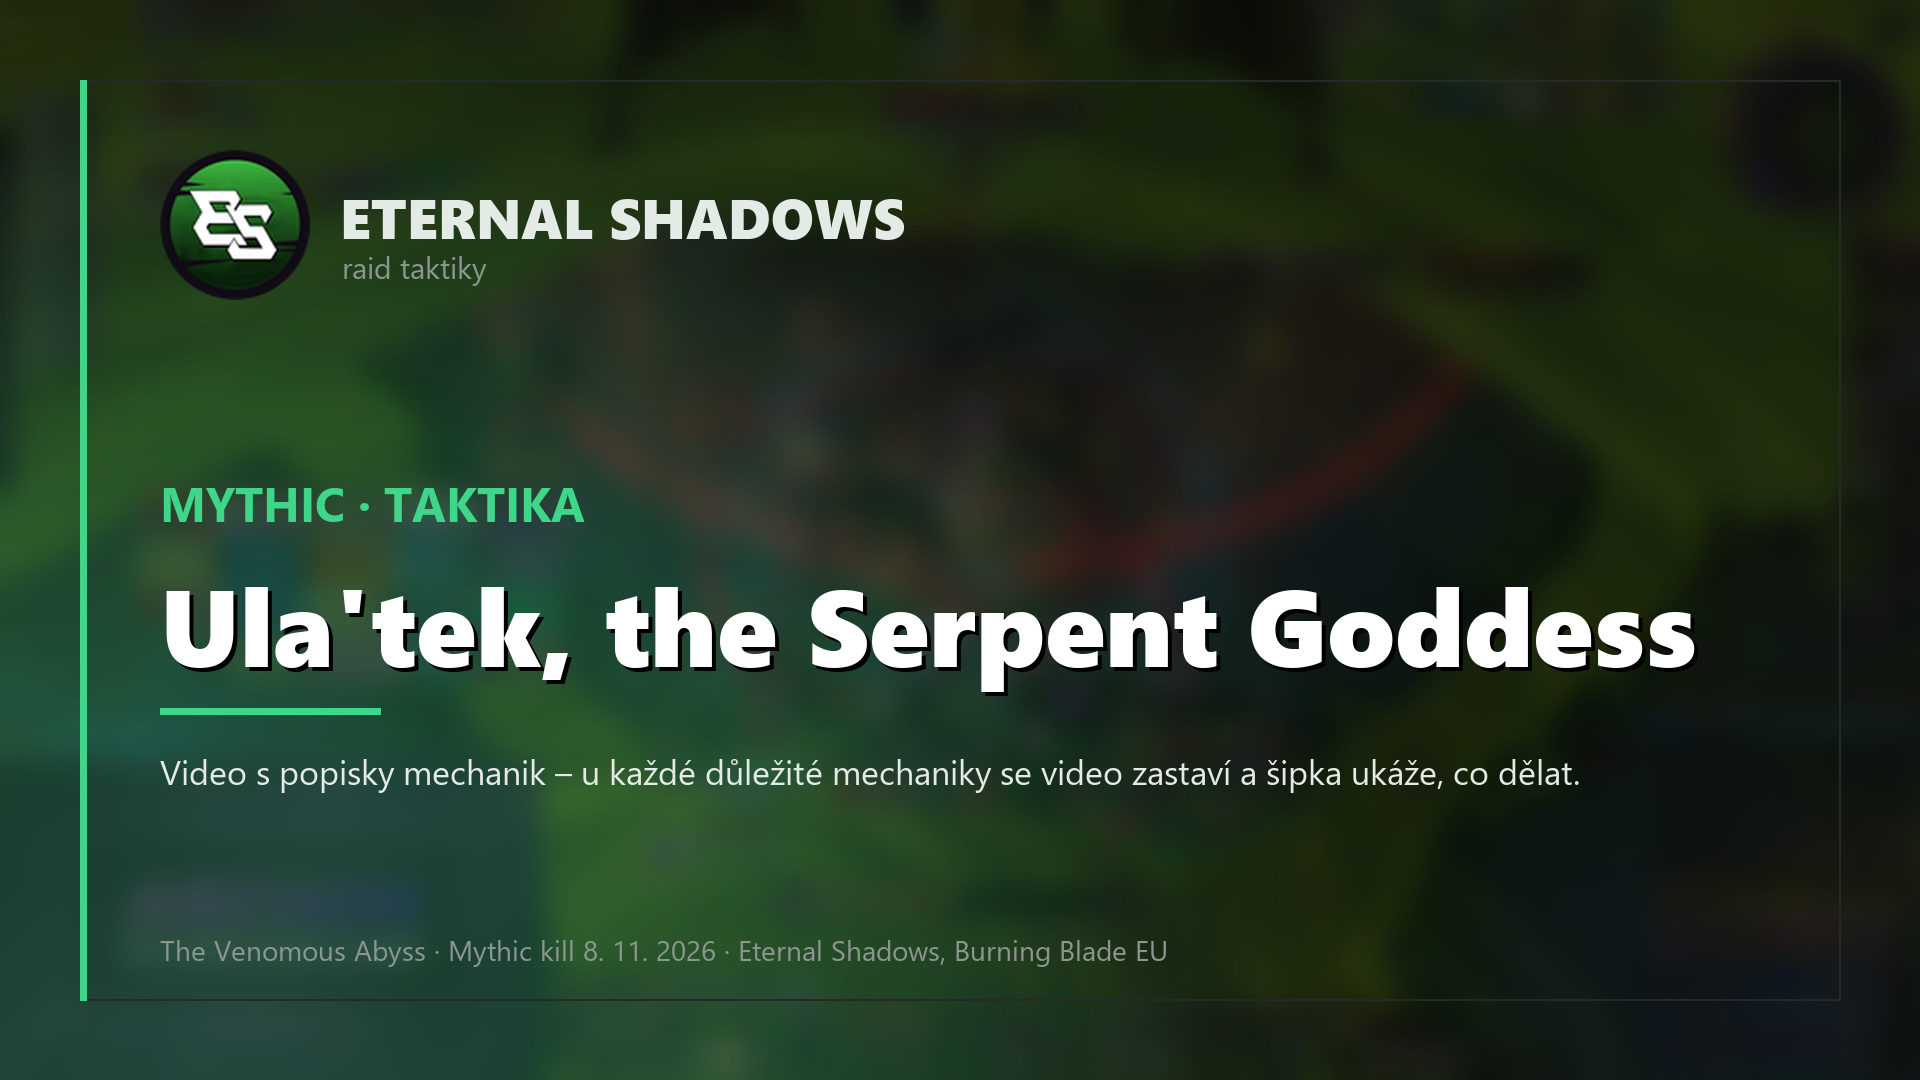
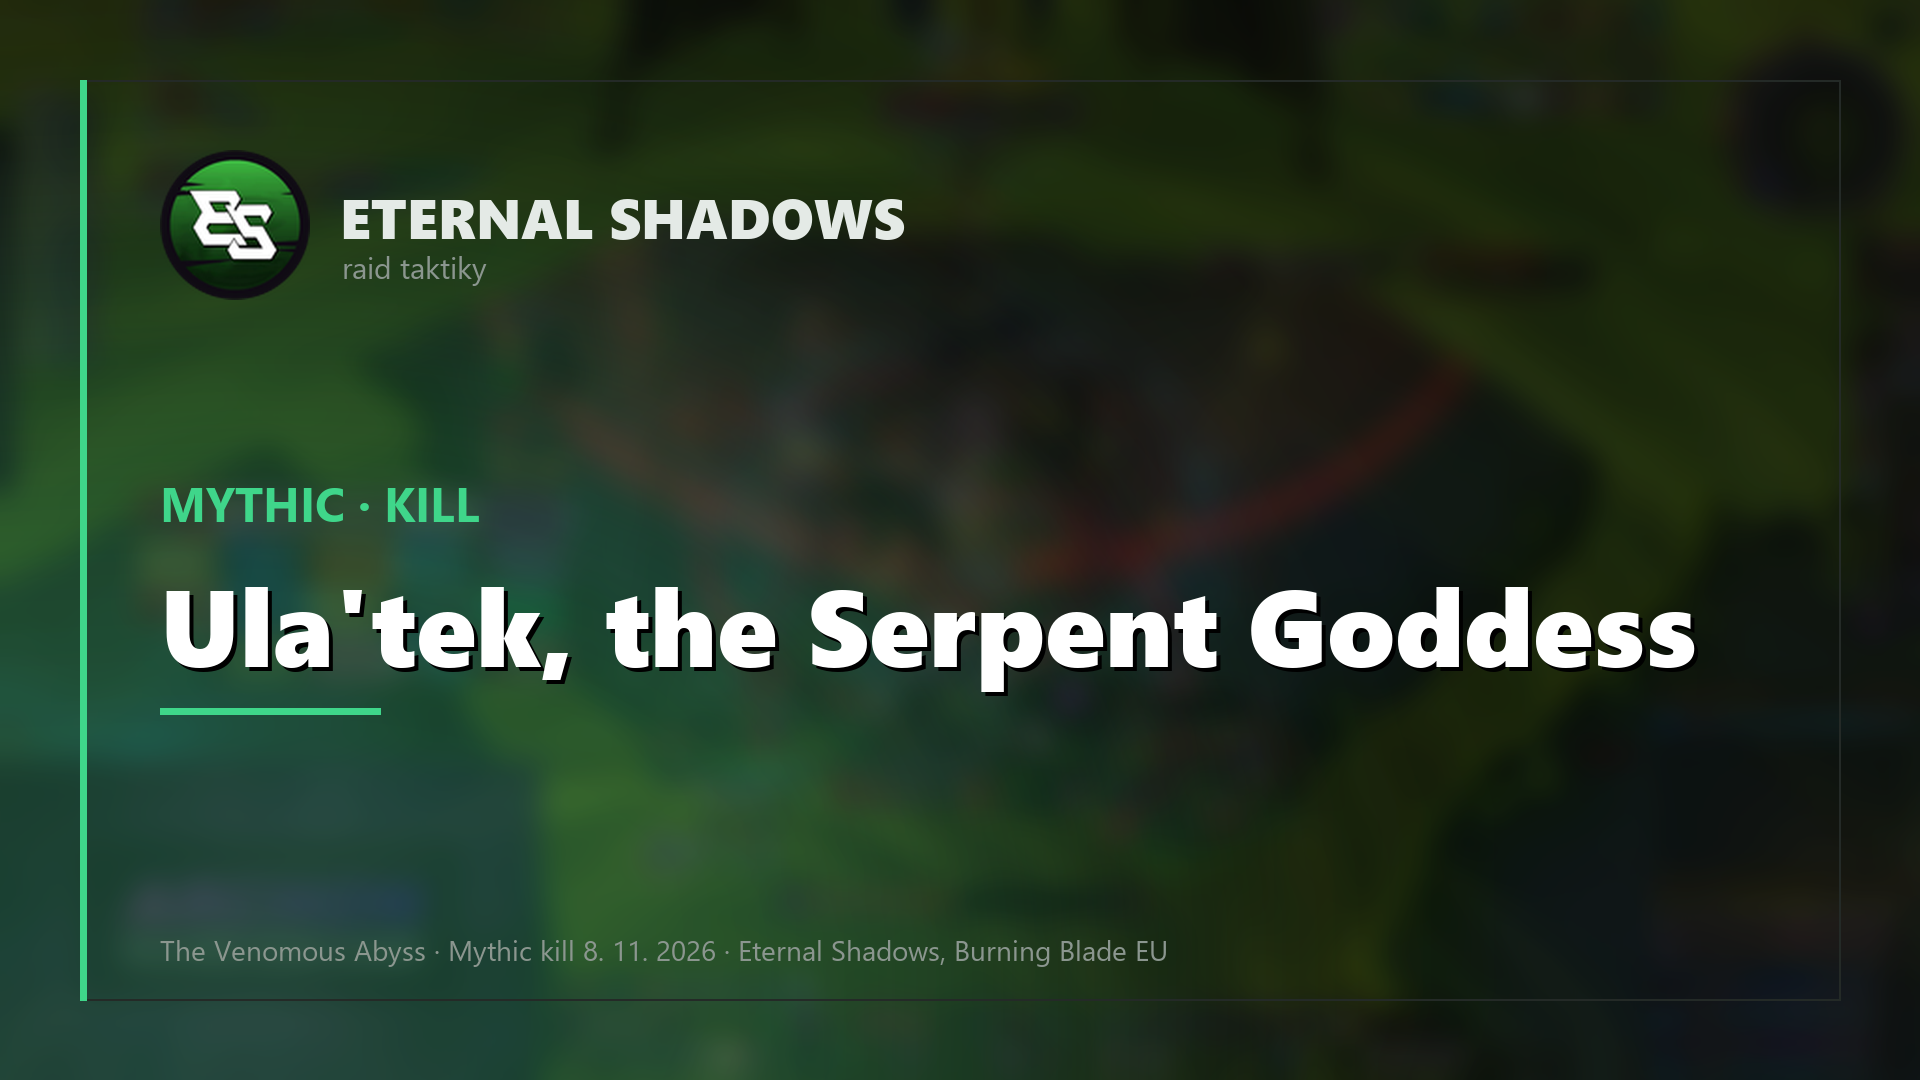
intro.py: tagline optional (removed from the Ula'tek card), default sub 'Mythic · kill'

Changed region(s): [[0.0938, 0.7028, 0.8125, 0.7333], [0.1875, 0.4278, 0.3125, 0.4889]]

diff --git a/tools/video/intro.py b/tools/video/intro.py
@@ -29,9 +29,10 @@ def main():
     ap = argparse.ArgumentParser()
     ap.add_argument("out")
     ap.add_argument("--title", required=True)
-    ap.add_argument("--sub", default="Mythic · taktika")
+    ap.add_argument("--sub", default="Mythic · kill")
     ap.add_argument("--guild", default="ETERNAL SHADOWS")
     ap.add_argument("--note", default="")
+    ap.add_argument("--tagline", default="", help="optional line under the title")
     ap.add_argument("--backdrop")
     ap.add_argument("--logo", default="web/assets/images/apple-touch-icon.png")
     a = ap.parse_args()
@@ -80,8 +81,8 @@ def main():
     y += size + 50
     d.rectangle([x, y, x + 220, y + 6], fill=ACCENT)
     y += 40
-    d.text((x, y), "Video s popisky mechanik – u každé důležité mechaniky se video zastaví a šipka ukáže, co dělat.",
-           font=font("segoeui.ttf", 34), fill=INK)
+    if a.tagline:
+        d.text((x, y), a.tagline, font=font("segoeui.ttf", 34), fill=INK)
     if a.note:
         d.text((x, H - 150), a.note, font=font("segoeui.ttf", 28), fill=MUTED)
 
